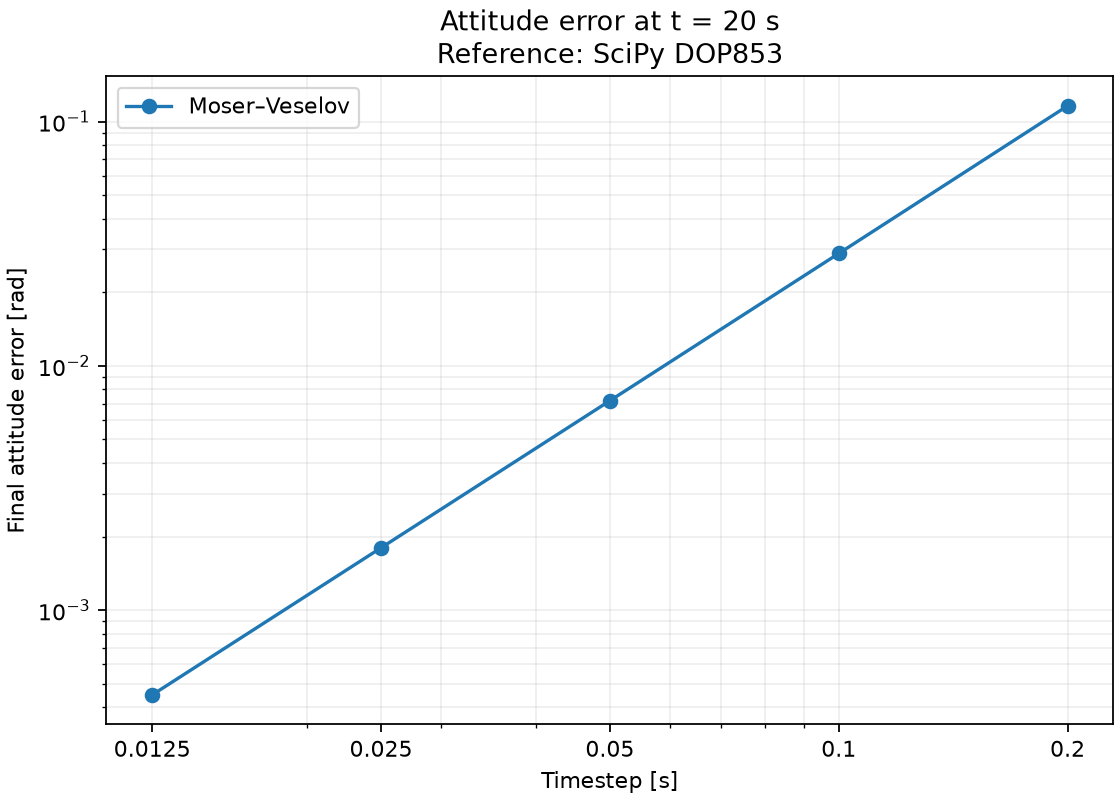
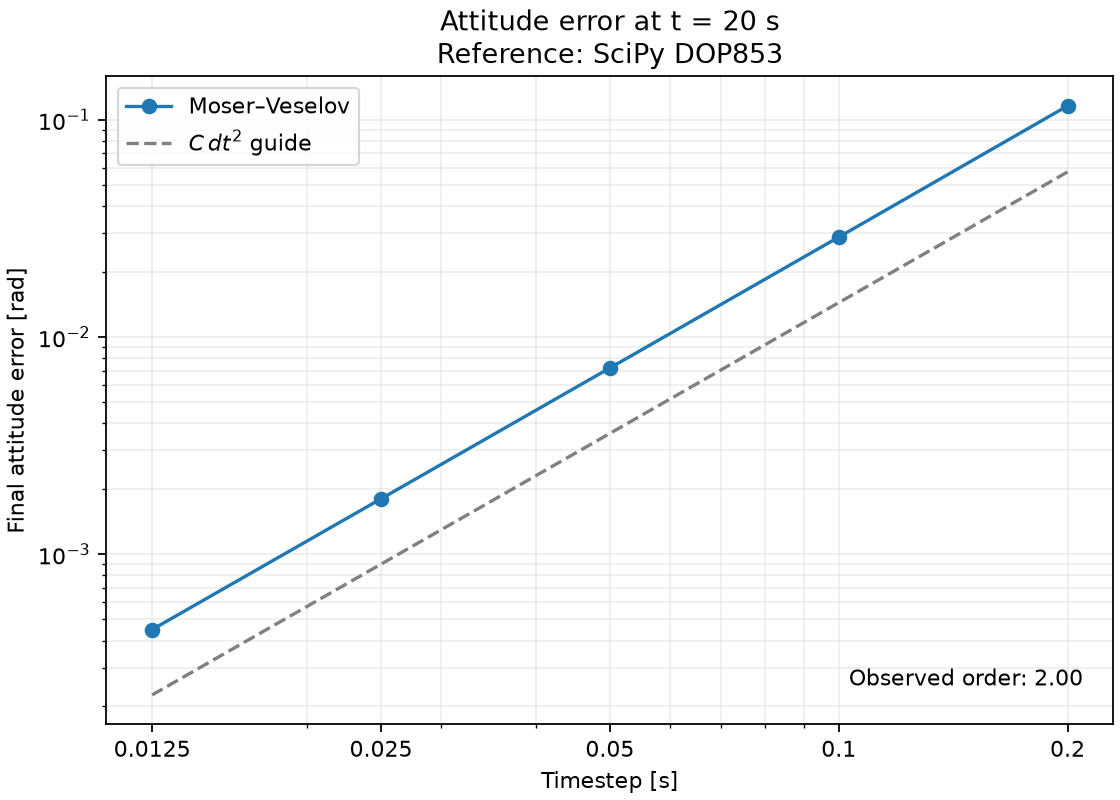
docs: annotate attitude convergence and clarify momentum comparison
Add a second-order slope guide and the observed order to the attitude plot.
Clarify roundoff and the RK4-plus-midpoint-Exp baseline in the momentum caption.

diff --git a/scripts/attitude_accuracy.py b/scripts/attitude_accuracy.py
@@ -139,9 +139,16 @@ def main():
     from matplotlib.ticker import NullFormatter
 
     dt_values = [row["dt_s"] for row in rows]
+    errors = [row["vi_attitude_error_rad"] for row in rows]
+    observed_order = np.polyfit(np.log(dt_values), np.log(errors), 1)[0]
+    # Offset the slope guide so it does not cover the measured errors.
+    guide = 0.5 * errors[-1] * (np.asarray(dt_values) / dt_values[-1])**2
     fig, ax = plt.subplots(figsize=(7, 5), layout="constrained")
-    ax.loglog(dt_values, [row["vi_attitude_error_rad"] for row in rows], "o-",
+    ax.loglog(dt_values, errors, "o-",
               label="Moser–Veselov")
+    ax.loglog(dt_values, guide, "--", color="gray", label=r"$C\,dt^2$ guide")
+    ax.text(0.97, 0.06, f"Observed order: {observed_order:.2f}",
+            transform=ax.transAxes, ha="right")
     ax.set_xlabel("Timestep [s]")
     ax.set_xticks(dt_values, labels=[f"{dt:g}" for dt in dt_values])
     ax.xaxis.set_minor_formatter(NullFormatter())

diff --git a/README.md b/README.md
@@ -143,8 +143,9 @@ of four, consistent with second-order convergence.
 
 ![Spatial momentum deviation over 20 seconds](artifacts/spatial_momentum_error.png)
 
-Spatial angular momentum over 20 seconds at $dt=0.01$ s. The baseline uses
-RK4 for body momentum and exponential attitude updates.
+Spatial angular momentum over 20 seconds at $dt=0.01$ s. The variational
+result stays at floating-point roundoff. The baseline couples RK4 on body
+momentum with midpoint exponential updates of attitude.
 
 [Relative energy deviation](artifacts/energy_drift.png) is available separately.
 
